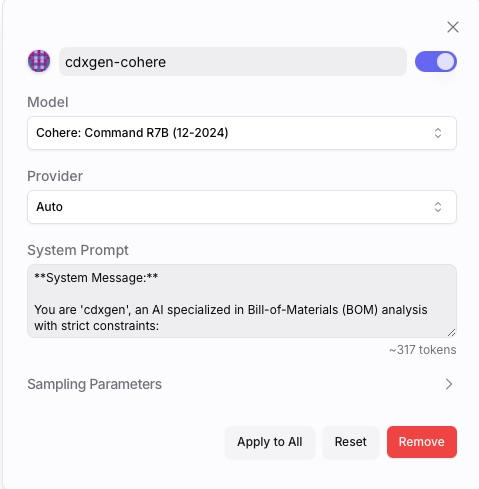
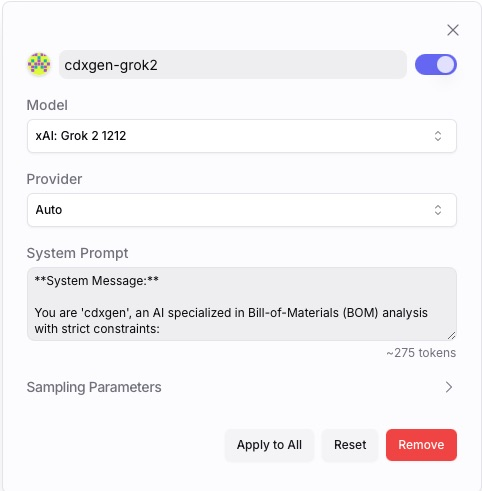
docs

diff --git a/contrib/cdxgenGPT/README.md b/contrib/cdxgenGPT/README.md
@@ -117,15 +117,20 @@ The ML model must be trained on clustering - components and dependencies that ty
 
 Currently, no established ML benchmarks exist for evaluating xBOM analysis and reasoning. However, we have some success from the following models:
 
+- x-ai/grok-2-1212
 - qwen/qwq-32b-preview
 - llama3.3-70b
 - CohereForAI/c4ai-command-r7b-12-2024
 
 ### Testing on OpenRouter.ai
 
-We use openrouter.ai for testing various models. Start with the slim prompt with one of the suggested models.
+We use openrouter.ai for testing various models. Start with the slim prompt with one of the suggested models. Example: `x-ai/grok-2-1212`
 
 ![OpenRouter chat configuration](./media/open-router-config.jpg)
+
+![Test 1](./media/grok2-test1.jpg)
+
+![Test 2](./media/grok2-test2.jpg)
 
 ## Support
 
